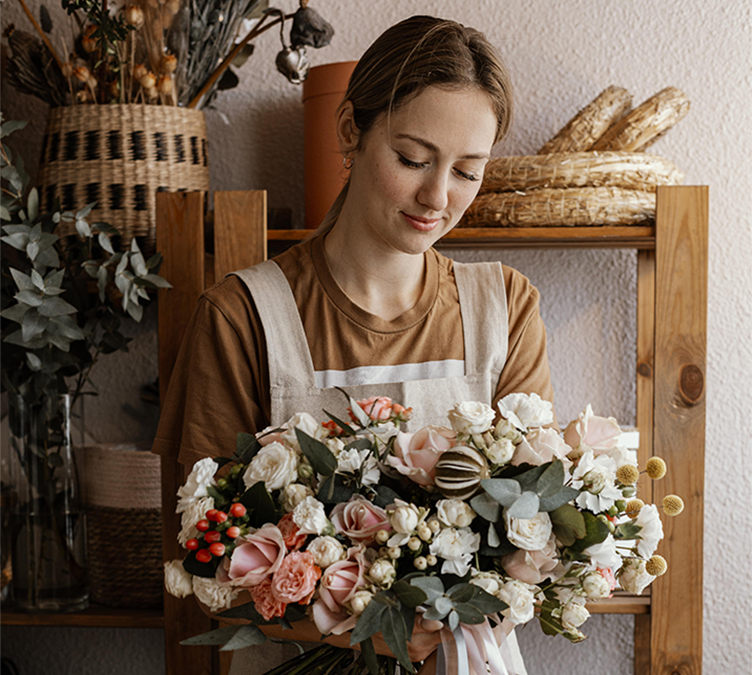
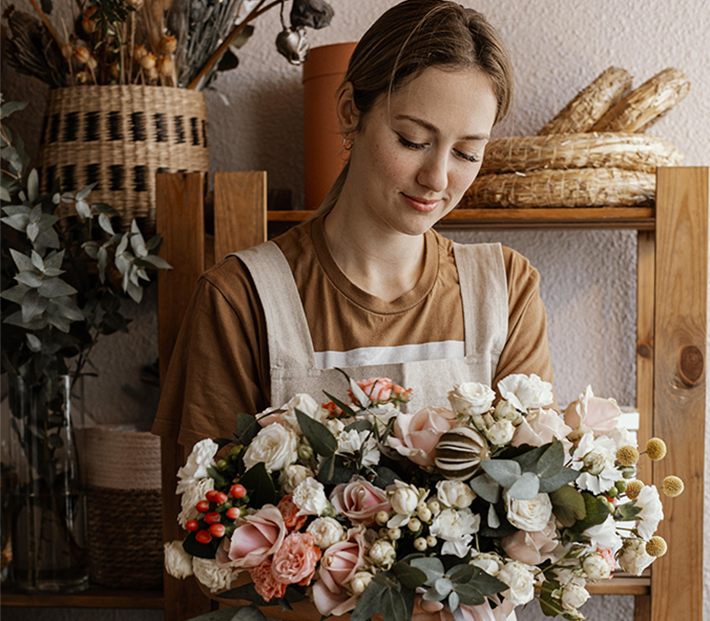
Template site responsivo

diff --git a/index.html b/index.html
@@ -25,7 +25,7 @@
             </button>
             <ul id="menu" role="menu">
                 <li>
-                    <a href="#topo">Sobre</a>
+                    <a href="#video">Sobre</a>
                 </li>
                 <li>
                     <a href="#carousel">Produtos</a>
@@ -53,7 +53,7 @@
                 </div>
             </div>
             <div class="col-md-6 animate__animated animate__fadeInRight">
-                <img class="img-fluid" src="/images/primeira-imagem.png" alt="">
+                <img class="img-fluid" src="/images/img-best-flower.png" alt="">
             </div>
         </div>
     </section>
@@ -76,6 +76,25 @@
                 <div class="col-md-3">
                     <p class="num"><strong>10 +</strong></p>
                     <p class="descricao">Years of Experience</p>
+                </div>
+            </div>
+        </div>
+    </section>
+
+    <section class="video" id="video">
+        <div class="container">
+            <div class="row">
+                <div class="col-md-8 animate__animated animate__fadeInLeft">
+                    <div class="youtube-player pristine" data-video-id="BX48cfNIOD0" id="div-video">
+                        <img class="img-fluid" style="width: 100%;" src="/images/img-video.png"
+                            alt="Thumbnail do vídeo" />
+                    </div>
+                </div>
+                <div class="col-md-4 animate__animated animate__fadeInRight">
+                    <h4>How we do it</h4>
+                    <p>Lorem ipsum dolor sit amet, consectetur adipisicing elit, sed do eiusmod tempor incididunt ut
+                        labore et dolore magna aliqua.
+                    </p>
                 </div>
             </div>
         </div>
@@ -143,25 +162,6 @@
                             <a href="#"><button class="btn-card">Read More</button></a>
                         </div>
                     </div>
-                </div>
-            </div>
-        </div>
-    </section>
-
-    <section class="video">
-        <div class="container">
-            <div class="row">
-                <div class="col-md-8 animate__animated animate__fadeInLeft">
-                    <div class="youtube-player pristine" data-video-id="BX48cfNIOD0" id="div-video">
-                        <img class="img-fluid" style="width: 100%;" src="/images/img-video.png"
-                            alt="Thumbnail do vídeo" />
-                    </div>
-                </div>
-                <div class="col-md-4 animate__animated animate__fadeInRight">
-                    <h4>How we do it</h4>
-                    <p>Lorem ipsum dolor sit amet, consectetur adipisicing elit, sed do eiusmod tempor incididunt ut
-                        labore et dolore magna aliqua.
-                    </p>
                 </div>
             </div>
         </div>

diff --git a/css/styles.scss b/css/styles.scss
@@ -188,7 +188,7 @@ section#topo {
   }
   .img-fluid {
     width: 100%;
-    height: 100vh;
+    // height: 100vh;
   }
   @media screen and (max-width: 920px) {
     height: 84vh;
@@ -201,7 +201,8 @@ section#topo {
   }
 
   @media screen and (max-width: 767px) {
-    height: 90vh;
+    height: 105vh;
+    display: flex;
     .alinha-texto {
       height: 42vh;
     }
@@ -211,9 +212,6 @@ section#topo {
     .lorem {
       margin: 0;
       font-size: 2.2vh;
-    }
-    .img-fluid {
-      height: 42vh;
     }
   }
 }
@@ -316,16 +314,17 @@ section#carousel {
     }
   }
   @media screen and (max-width: 767px) {
-    height: 370vh;
+    height: 300vh;
     align-items: center;
     .card-title {
       font-size: 3vh;
+      text-align: center;
     }
     .card-text {
       font-size: inherit;
     }
     .btn-card {
-      width: 60%;
+      width: 100%;
       height: 4vh;
     }
   }
@@ -333,11 +332,8 @@ section#carousel {
     height: 400vh;
   }
   @media screen and (max-width: 375px) {
-    height: 360vh;
+    height: 350vh;
   }
-  // .setas {
-  //   text-align: center;
-  // }
 }
 
 section.video {
@@ -363,7 +359,6 @@ section.video {
 
   @media screen and (max-width: 912px) {
     height: 35vh;
-    // align-items: baseline;
     h4 {
       font-size: 3vh;
     }
@@ -478,7 +473,7 @@ section.texto-descritivo {
     }
   }
   @media screen and (max-width: 767px) {
-    height: 105vh;
+    height: 115vh;
     .img-fluid {
       height: 50vh;
     }

diff --git a/css/styles.css b/css/styles.css
@@ -189,7 +189,6 @@ section#topo .btn:hover {
 }
 section#topo .img-fluid {
   width: 100%;
-  height: 100vh;
 }
 @media screen and (max-width: 920px) {
   section#topo {
@@ -204,7 +203,8 @@ section#topo .img-fluid {
 }
 @media screen and (max-width: 767px) {
   section#topo {
-    height: 90vh;
+    height: 105vh;
+    display: flex;
   }
   section#topo .alinha-texto {
     height: 42vh;
@@ -215,9 +215,6 @@ section#topo .img-fluid {
   section#topo .lorem {
     margin: 0;
     font-size: 2.2vh;
-  }
-  section#topo .img-fluid {
-    height: 42vh;
   }
 }
 
@@ -323,17 +320,18 @@ section#carousel .btn-card:hover {
 }
 @media screen and (max-width: 767px) {
   section#carousel {
-    height: 370vh;
+    height: 300vh;
     align-items: center;
   }
   section#carousel .card-title {
     font-size: 3vh;
+    text-align: center;
   }
   section#carousel .card-text {
     font-size: inherit;
   }
   section#carousel .btn-card {
-    width: 60%;
+    width: 100%;
     height: 4vh;
   }
 }
@@ -344,7 +342,7 @@ section#carousel .btn-card:hover {
 }
 @media screen and (max-width: 375px) {
   section#carousel {
-    height: 360vh;
+    height: 350vh;
   }
 }
 
@@ -496,7 +494,7 @@ section.texto-descritivo .btn-card:hover {
 }
 @media screen and (max-width: 767px) {
   section.texto-descritivo {
-    height: 105vh;
+    height: 115vh;
   }
   section.texto-descritivo .img-fluid {
     height: 50vh;
